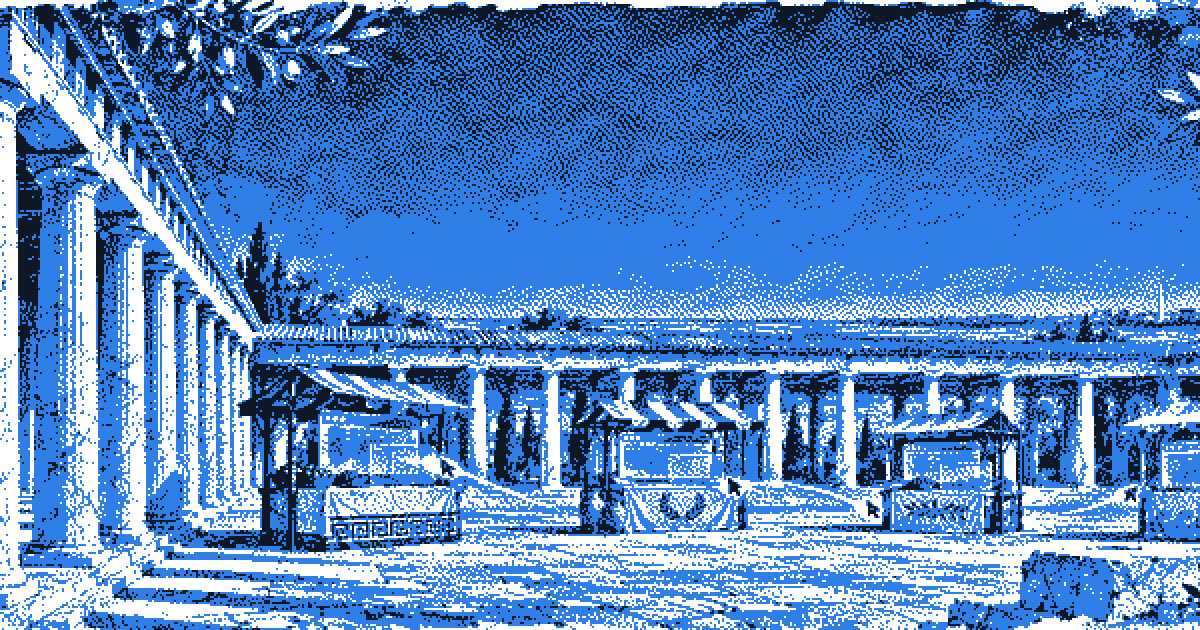
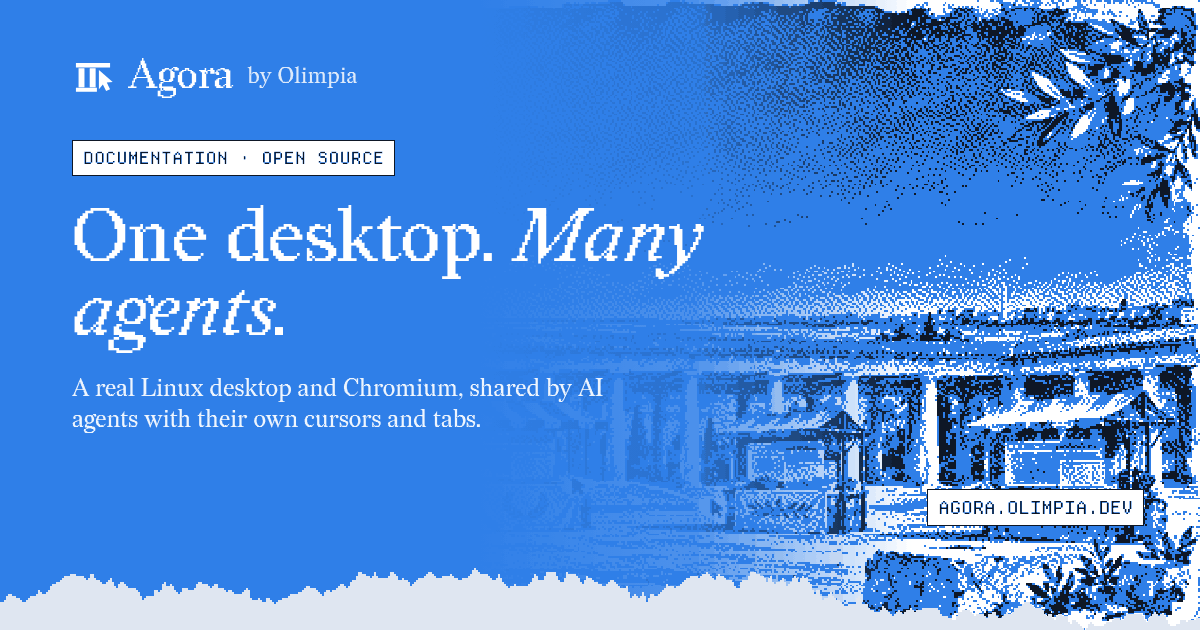
docs(site): social card with the brand and title over the dithered art (#7)

diff --git a/site/scripts/comic.py b/site/scripts/comic.py
@@ -9,7 +9,6 @@ BLUE = (47, 127, 232)
 WHITE = (255, 255, 255)
 
 SCENES = {"banner": ("banner.webp", (800, 333), None), "home": ("banner.webp", (512, 632), (0.66, 0.3))}
-CARD = "banner.webp"
 
 
 def atkinson(v, levels):
@@ -55,11 +54,6 @@ def main(src, out):
     for name, (file, size, focus) in SCENES.items():
         scene(frame(Image.open(src / file).convert("RGB"), size, focus), size).save(out / f"{name}.webp", lossless=True, method=6)
         print(name)
-    card = Image.open(src / CARD).convert("RGB")
-    width = min(card.width, card.height * 1200 // 630)
-    height = width * 630 // 1200
-    left, top = (card.width - width) // 2, (card.height - height) // 2
-    scene(card.crop((left, top, left + width, top + height)), (600, 315)).quantize(4).save(out / "og.png", optimize=True)
 
 
 main(*sys.argv[1:3])
